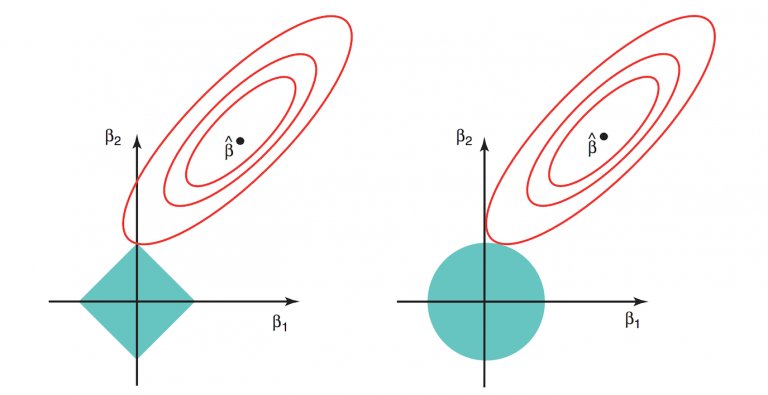
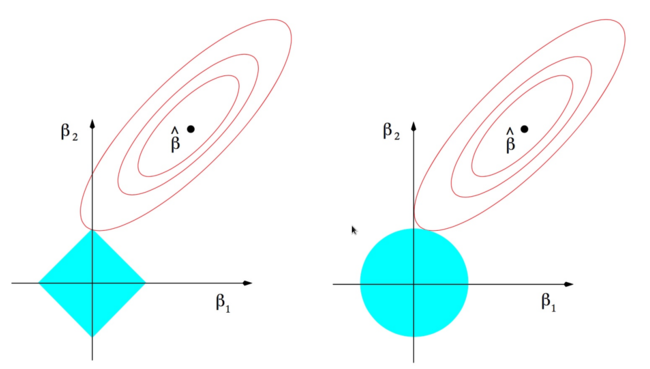
Shrinkage

diff --git a/_posts/2019-04-15-Shrinkage Estimation.md b/_posts/2019-04-15-Shrinkage Estimation.md
@@ -31,7 +31,7 @@ $$
 \hat{\beta}_{LSE} = \text{argmin}_{\beta}(\bf{Y}-\bf{X}\beta)^{T}(\bf{Y}-\bf{X}\beta)
 $$
 
-Ridge의 추정치는 $$ \mid\beat\mid_{2}^{2} \leq t^{2} $$, 즉 L2 Norm이 특정값보다 작다는 제약조건 하에서 다음과 같이 구할 수 있다.
+Ridge의 추정치는 $$ \mid\beta\mid_{2}^{2} \leq t^{2} $$, 즉 L2 Norm이 특정값보다 작다는 제약조건 하에서 다음과 같이 구할 수 있다.
 
 $$
 \hat{\beta}_{Ridge} = \text{argmin}_{\beta}(\bf{Y}-\bf{X}\beta)^{T}(\bf{Y}-\bf{X}\beta)
@@ -43,7 +43,7 @@ $$
 \hat{\beta}_{Ridge} = \text{argmin}_{\beta}\{(\bf{Y}-\bf{X}\beta)^{T}(\bf{Y}-\bf{X}\beta)+\lambda |\beta|_{2}^{2} \}
 $$
 
-이는 LSE를 구하는 과정에 $$ \lambda |\beta|^{2} $$ 라는 Penalty Term이 들어가는 것이며 이 Penalty Term까지 들어간 부분을 포함해 전체를 최소화시키는 것을 의미한다. 이 Penalty Term을 정규화항이라 부르기도 하며  데이터에 의해 지지되지 않는 한 parameter 값이 0을 향해 감소하기 때문에 이를 매개변수 축소(parameter shrinkage)라 부른다.
+이는 LSE를 구하는 과정에 $$ \lambda \mid\beta\mid^{2} $$ 라는 Penalty Term이 들어가는 것이며 이 Penalty Term까지 들어간 부분을 포함해 전체를 최소화시키는 것을 의미한다. 이 Penalty Term을 정규화항이라 부르기도 하며  데이터에 의해 지지되지 않는 한 parameter 값이 0을 향해 감소하기 때문에 이를 매개변수 축소(parameter shrinkage)라 부른다.
 
 기존 LSE의 추정값은 $$ \hat{\beta}_{LSE} (\bf{X}^{T}\bf{X})^{-1}\bf{X}^{T}\bf{Y} $$ 인데 Ridge Regression의 경우 $$ \hat{\beta}_{Ridge} (\bf{X}^{T}\bf{X}+\lambda\bf{I})^{-1}\bf{X}^{T}\bf{Y} $$ 의 형태로 구할 수 있다.
 
@@ -67,5 +67,9 @@ $$
 
 ![Shrinkage](https://github.com/seolbluewings/seolbluewings.github.io/blob/master/assets/LASSO.PNG?raw=true)
 
-Ridge 와 LASSO의 차이는 Penalty Term이 L2 Norm에서 L1 Norm으로 바뀐다는 것이다. 위의 그림은 Ridge와 LASSO의 차이를 보여주는 그림으로 보여주는 대표적인 예시이다. 이 그림에서 등고선은 $$\hat{\beta}_{LSE}$$ 을 중심으로 하는 
+Ridge 와 LASSO의 차이는 Penalty Term이 L2 Norm에서 L1 Norm으로 바뀐다는 것이다. 위의 그림은 Ridge와 LASSO의 차이를 보여주는 그림으로 보여주는 대표적인 예시이다. 이 그림에서 등고선은 $$\hat{\beta}_{LSE}$$ 을 중심으로 하는 오차제곱합의 등고선이다.
+
+음영처리된 부분은 제약조건인 $$ \mid\beta_{1}\mid + \mid\beta_{2}\mid \leq t $$ 와 $$ \beta_{1}^{2} + \beta_{2}^{2} \leq t^{2} $$ 을 만족시키는 영역을 표현한다. 각 $$\beta_{j}$$의 추정치는 등고선과 음영처리된 영역이 만나는 점으로 주어지게 된다.
+
+LASSO의 경우 제약조건을 나타내는 영역이 정사각형 형태이므로 추정값이 모서리제 닿아 계수가 0이될 가능성이 높다. LASSO는 설명력이 없는 입력변수들의 계수를 0으로 추정함으로써 자동적으로 변수선택이 이루어진다.
 
